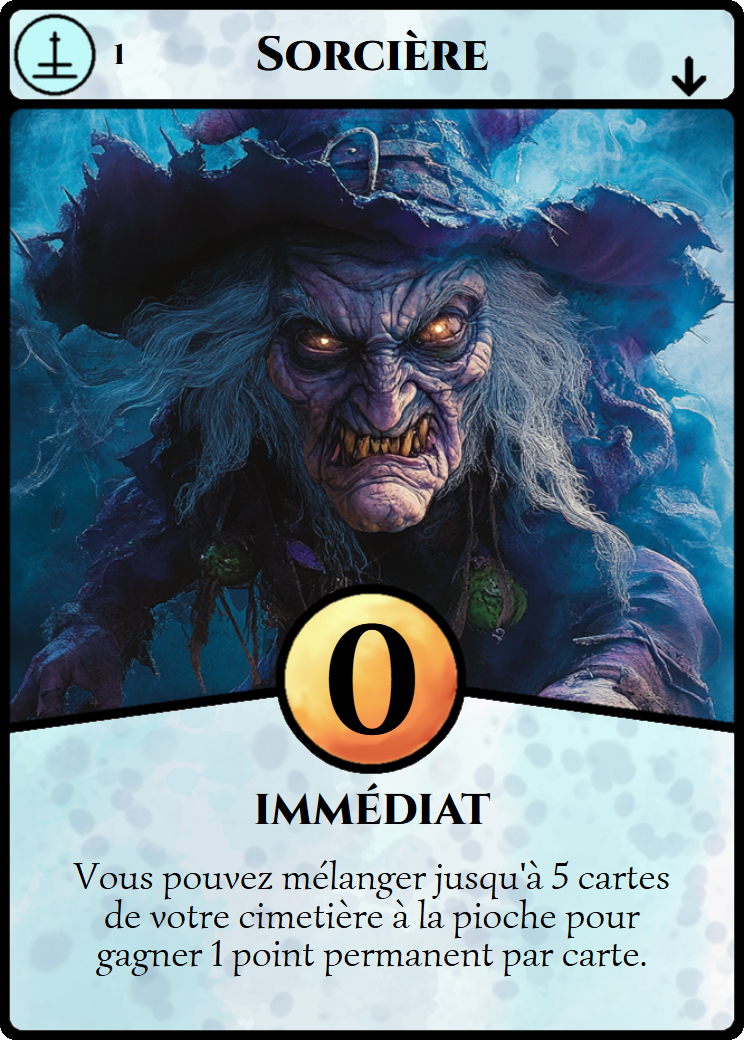
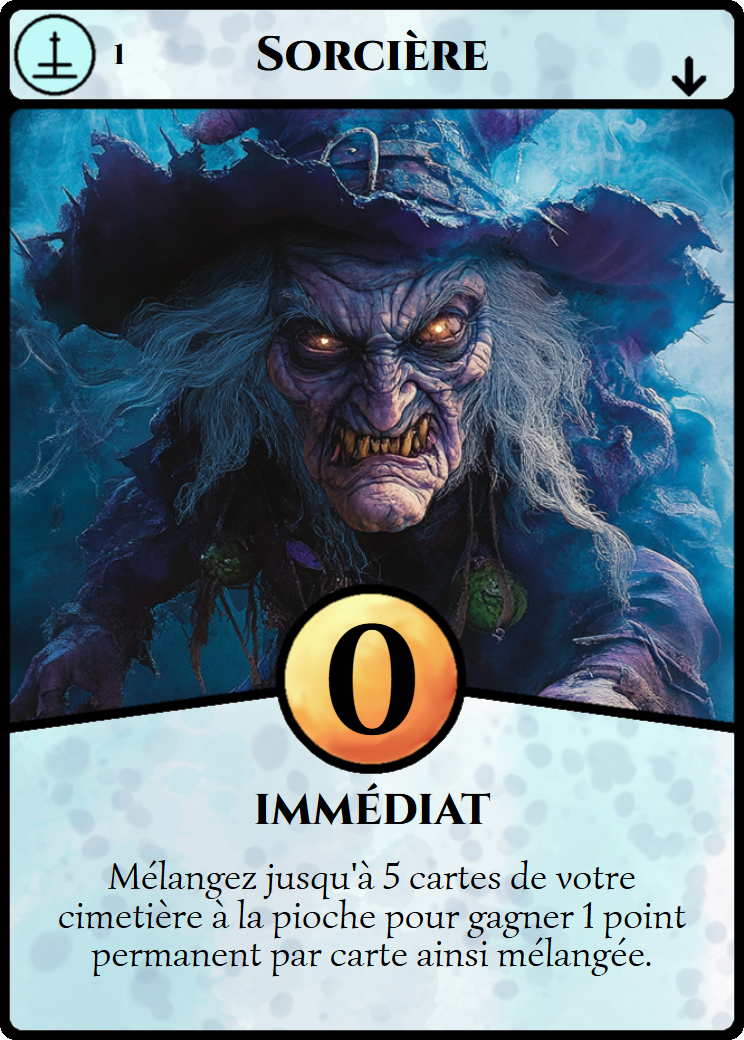
Fix some texts

Changed region(s): [[0.0927, 0.8308, 0.9274, 0.9538]]

diff --git a/output_tmp/squelettes/1_temps.html b/output_tmp/squelettes/1_temps.html
@@ -284,9 +284,9 @@
         <span class="name">Temps</span>
         <span class="count">1</span>
         <img class="position" src="../../assets\sprites\positions\any.png">
-        <span class="point">0</span>
+        <span class="point">1</span>
         <span class="type">PERMANENT</span>
-        <span class="effect">Vous n'êtes plus obligé de faire les effets '<span class='effect-cinzel'>Contrainte</span>' de vos personnages.</span>
+        <span class="effect">Vous n'êtes plus obligé de faire les effets <span class='effect-cinzel'>Contrainte</span> de vos personnages.</span>
         <span class="legend"></span>
 
         <span class="typeA"></span>

diff --git a/output_tmp/cats/1_conseil.html b/output_tmp/cats/1_conseil.html
@@ -286,7 +286,7 @@
         <img class="position" src="../../assets\sprites\positions\front.png">
         <span class="point">X</span>
         <span class="type">PERMANENT</span>
-        <span class="effect"><span class='effect-cinzel'>X</span> vaut 5 si toutes les factions en jeu sont représentées sur votre terrain, sinon <span class='effect-cinzel'>X</span> vaut 0.</span>
+        <span class="effect"><span class='effect-cinzel'>X</span> vaut 5 si toutes les factions en jeu sont présentent sur votre terrain, sinon <span class='effect-cinzel'>X</span> vaut 0.</span>
         <span class="legend"></span>
 
         <span class="typeA"></span>

diff --git a/output_tmp/squelettes/1_sorciere.html b/output_tmp/squelettes/1_sorciere.html
@@ -286,7 +286,7 @@
         <img class="position" src="../../assets\sprites\positions\back.png">
         <span class="point">0</span>
         <span class="type">IMMÉDIAT</span>
-        <span class="effect">Vous pouvez mélanger jusqu'à 5 cartes de votre cimetière à la pioche pour gagner 1 point permanent par carte.</span>
+        <span class="effect">Mélangez jusqu'à 5 cartes de votre cimetière à la pioche pour gagner 1 point permanent par carte ainsi mélangée.</span>
         <span class="legend"></span>
 
         <span class="typeA"></span>
